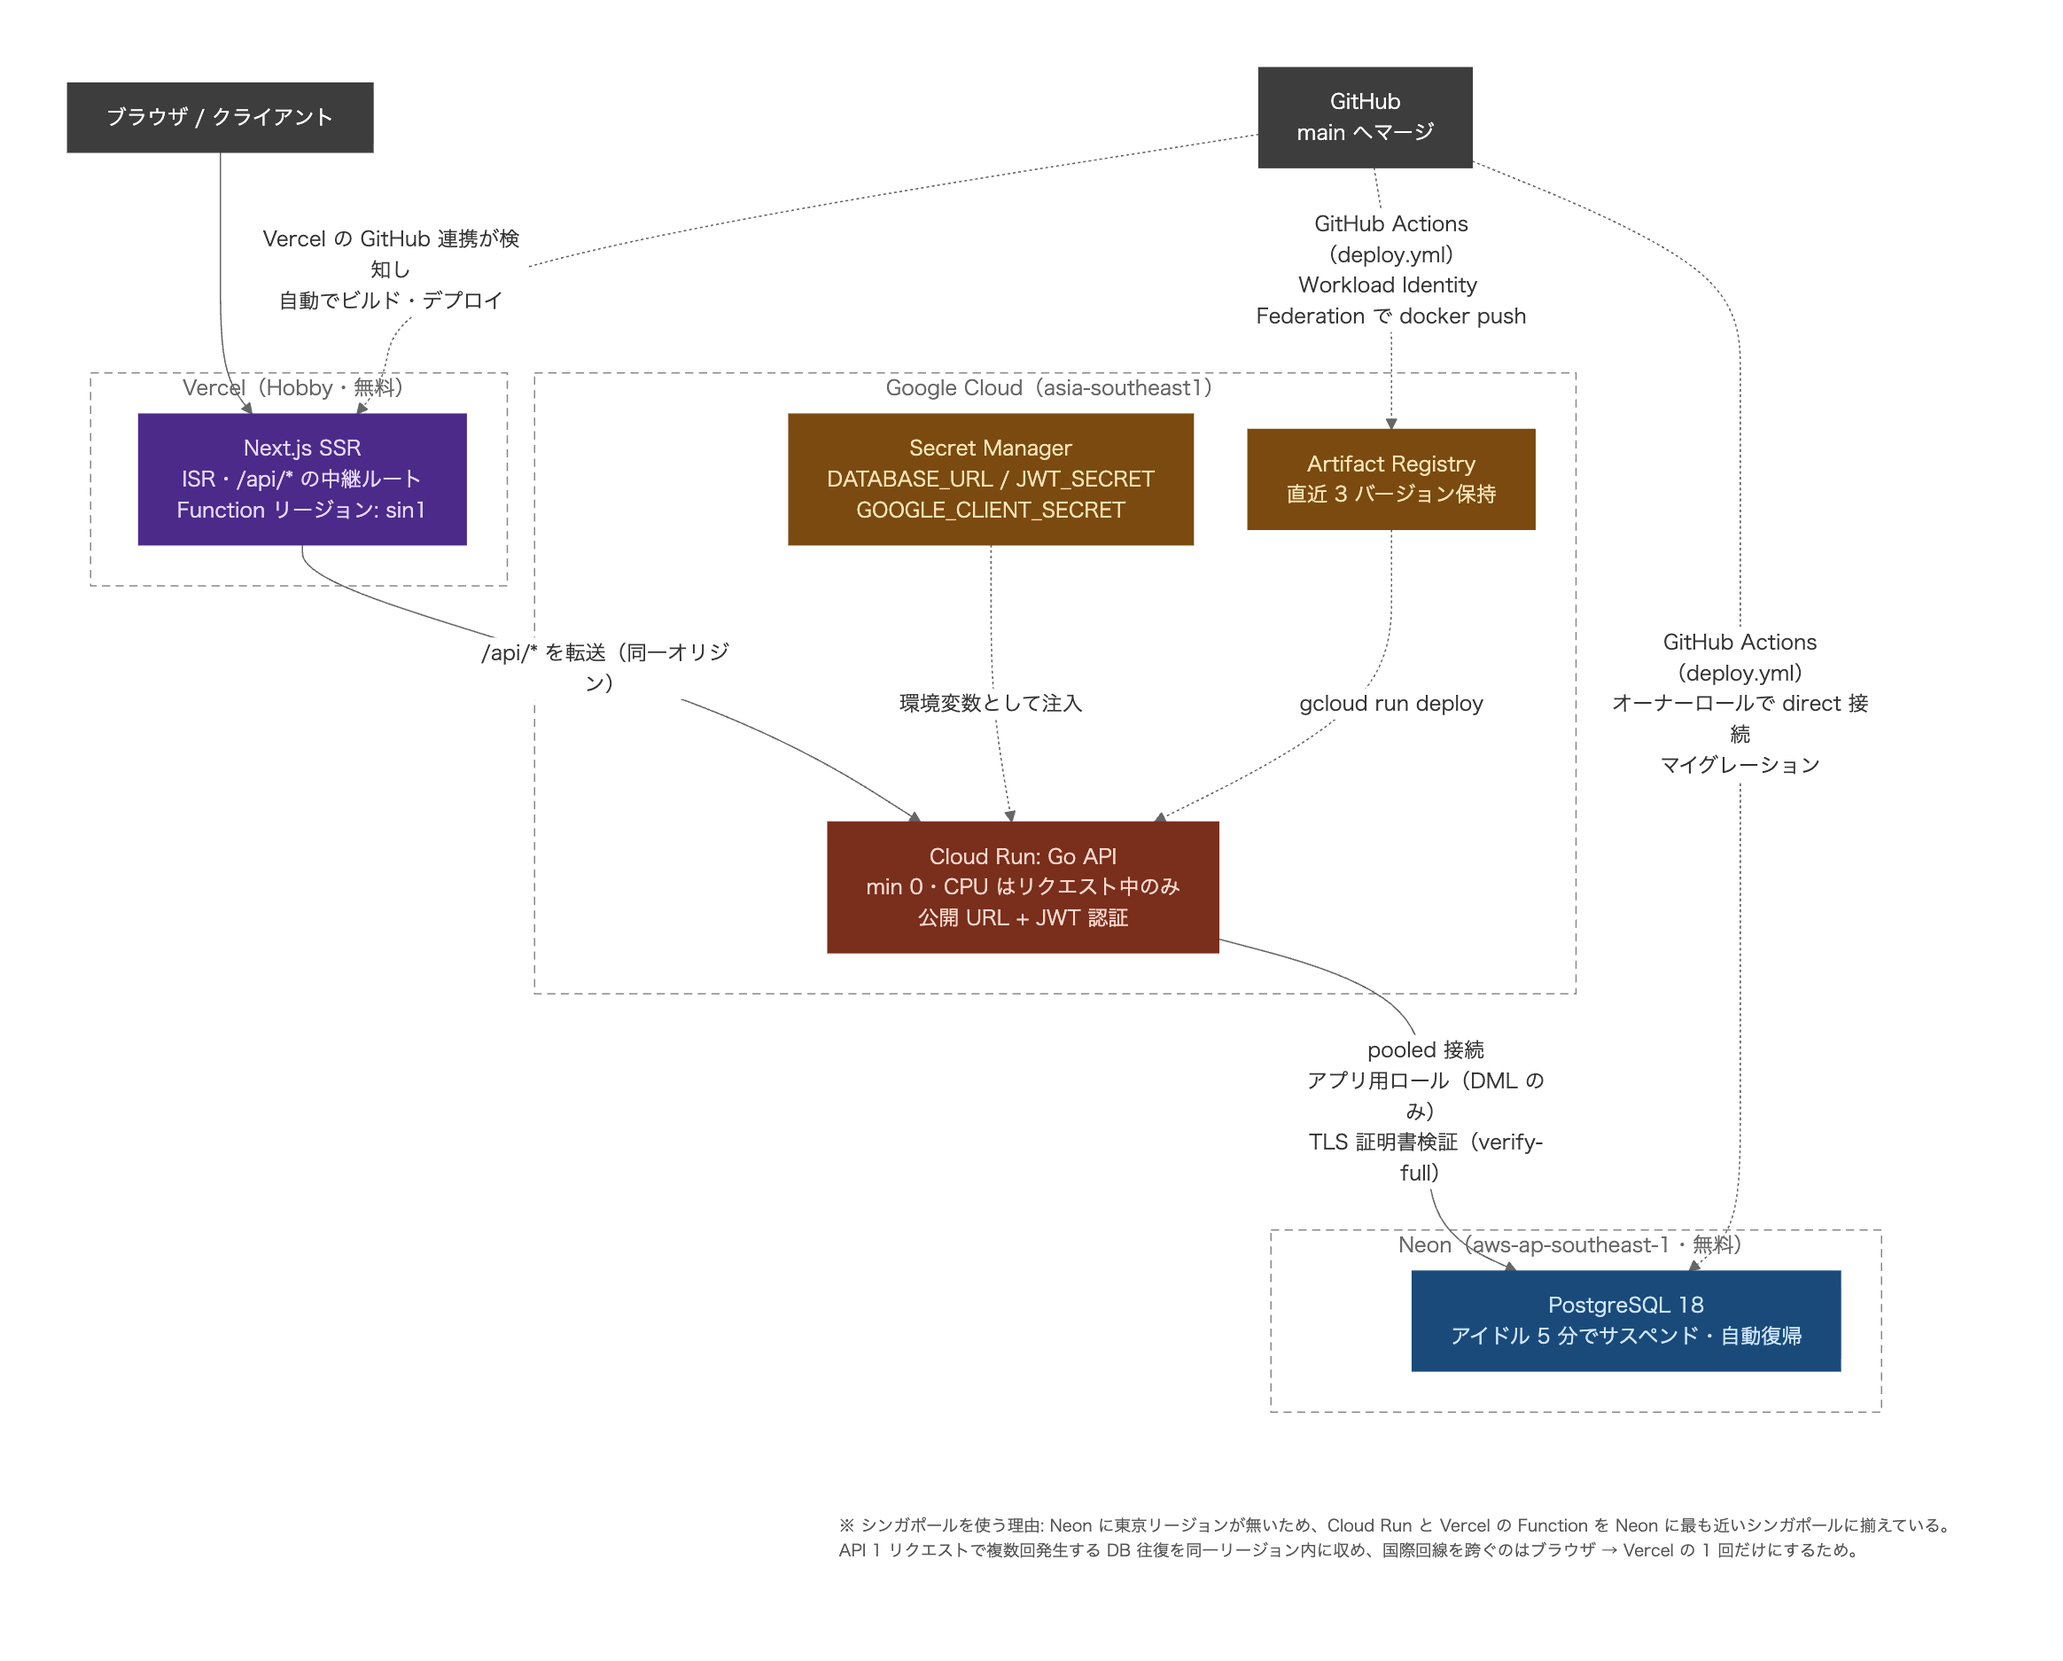
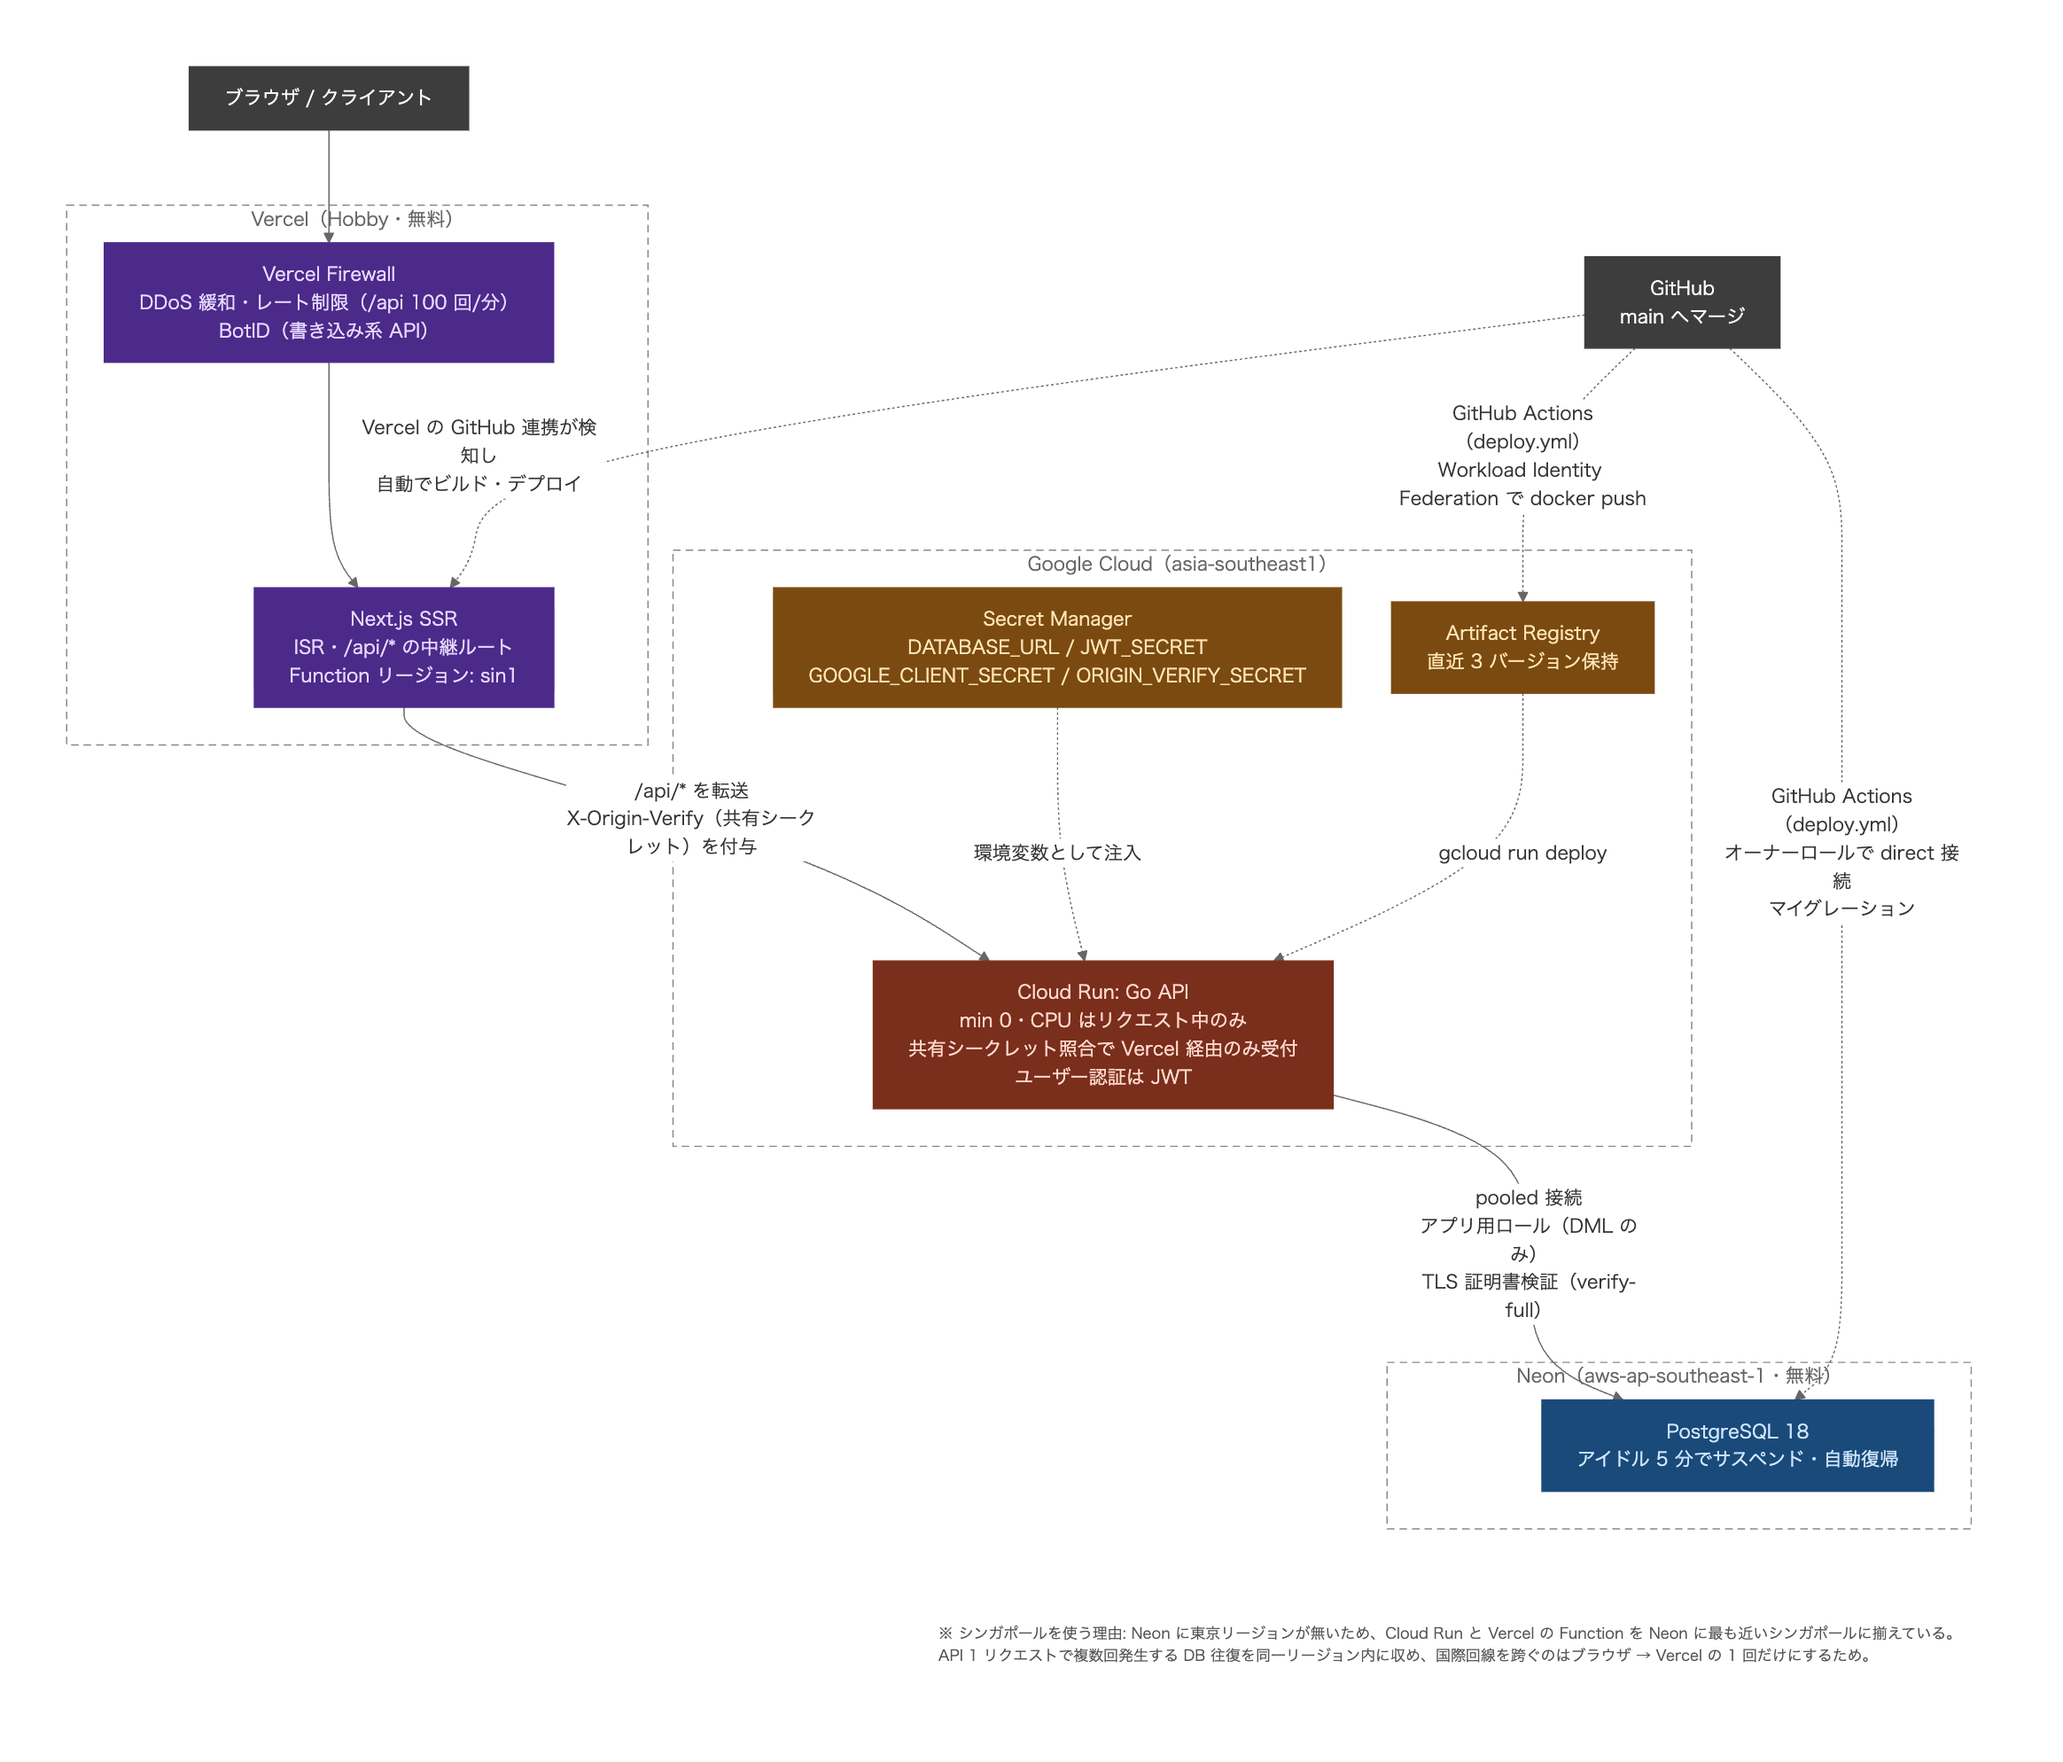
docs: Vercel 経由のみの受付と Bot 対策を README と構成図に反映
- README の設計上のポイントに「Cloud Run は Vercel 経由のリクエストだけを受け付ける」「Bot 対策は入口の Vercel で行う」を追加
- infra/README に共有シークレットの入れ替え手順と、Hobby のレート制限ルール枠を使い切っている旨を追記
- 構成図に Vercel Firewall を追加し、Cloud Run の説明を共有シークレット照合に更新

diff --git a/README.md b/README.md
@@ -68,6 +68,8 @@ Terraform の定義は [infra/](infra/) にあります。Vercel のプロジェ
 
 - **scale-to-zero を徹底**: Cloud Run は `min_instance_count = 0` かつ CPU はリクエスト処理中のみ割り当て。Neon は Free プランのため常にサスペンド対象。DB への keep-alive や定期 ping は実装しない
 - **Go API は Vercel の中継ルート経由で呼ぶ**: ブラウザからは同一オリジンの `/api/*` に投げ、Next.js の Route Handler が Cloud Run に転送する。CORS 設定が不要で、バックエンドの URL もブラウザに露出しない
+- **Cloud Run は Vercel 経由のリクエストだけを受け付ける**: Cloud Run の URL 自体は公開だが、Vercel だけが知る共有シークレットを `X-Origin-Verify` ヘッダーで照合し、一致しないリクエストは Go が 403 を返す。Vercel の Firewall を迂回した直接アクセスを塞ぐため（CloudFront + オリジンのカスタムヘッダー照合と同じ考え方）。IAM 認証なら届く前に弾けるが、Vercel からの OIDC 連携が必要なため見送った
+- **Bot 対策は入口の Vercel で行う**: 同一 IP から `/api` への 1 分あたり 100 回超を Vercel Firewall のレート制限で 429 にする。書き込み系 API（POST / PUT / DELETE）は Vercel BotID（Basic）でブラウザ上のチャレンジを検証し、ページを経由しないスクリプトからのリクエストを 403 にする。いずれも Hobby プランの無料枠内
 - **秘密情報は Secret Manager から注入**: 実行用サービスアカウントには secret 単位で参照権限を付与。秘密でない値（クライアント ID、フロント URL）は平文の環境変数
 - **CI/CD は長期鍵を持たない**: GitHub Actions は Workload Identity Federation でデプロイ用サービスアカウントになりすます。信頼するのはこのリポジトリからの OIDC トークンのみ
 - **DB は公開エンドポイントだが、暗号化と最小権限で守る**: DB をプライベートネットワークに閉じ込めるには VPC コネクタや NAT（GCP 側）、IP 制限（Neon の有料プラン）が必要で、いずれも「常時課金なし」の方針と両立しない。そのため公開エンドポイントを前提に、接続は TLS 必須かつサーバー証明書も検証し（`sslmode=verify-full`）、アプリはデータの読み書きだけができる専用ロールで接続してテーブル定義の変更や削除はできないようにしている。DDL を持つオーナーロールはマイグレーション専用

diff --git a/infra/README.md b/infra/README.md
@@ -50,6 +50,8 @@ terraform apply
 
 - `min_instance_count` を 1 以上にしない、`cpu_idle` を false にしない（常時課金になる）
 - Cloud Run のイメージ更新は CI/CD（`gcloud run deploy`）の責務。Terraform は `image` の差分を無視する
+- 共有シークレット（`veganbite-dev-origin-verify-secret`）を入れ替えると、Vercel の再デプロイと Cloud Run の新リビジョンが揃うまで API が 403 になる。入れ替えるときは Go 側の照合を一時的に外す（`cloudrun.tf` の `ORIGIN_VERIFY_SECRET` を外して apply）→ 値を更新して Vercel を再デプロイ → 照合を戻す、の順で行う
+- Vercel Firewall のレート制限は Hobby の枠（ルール 1 本）を使い切っている。ルールを増やすときはプランの上限を確認する
 - neon provider は community 製のためバージョンを完全固定している。`terraform init -upgrade` は CHANGELOG を確認してから実行する。`neon_project` には `prevent_destroy` を付けている
 
 ## 構成図（docs/architecture.png）の再生成
